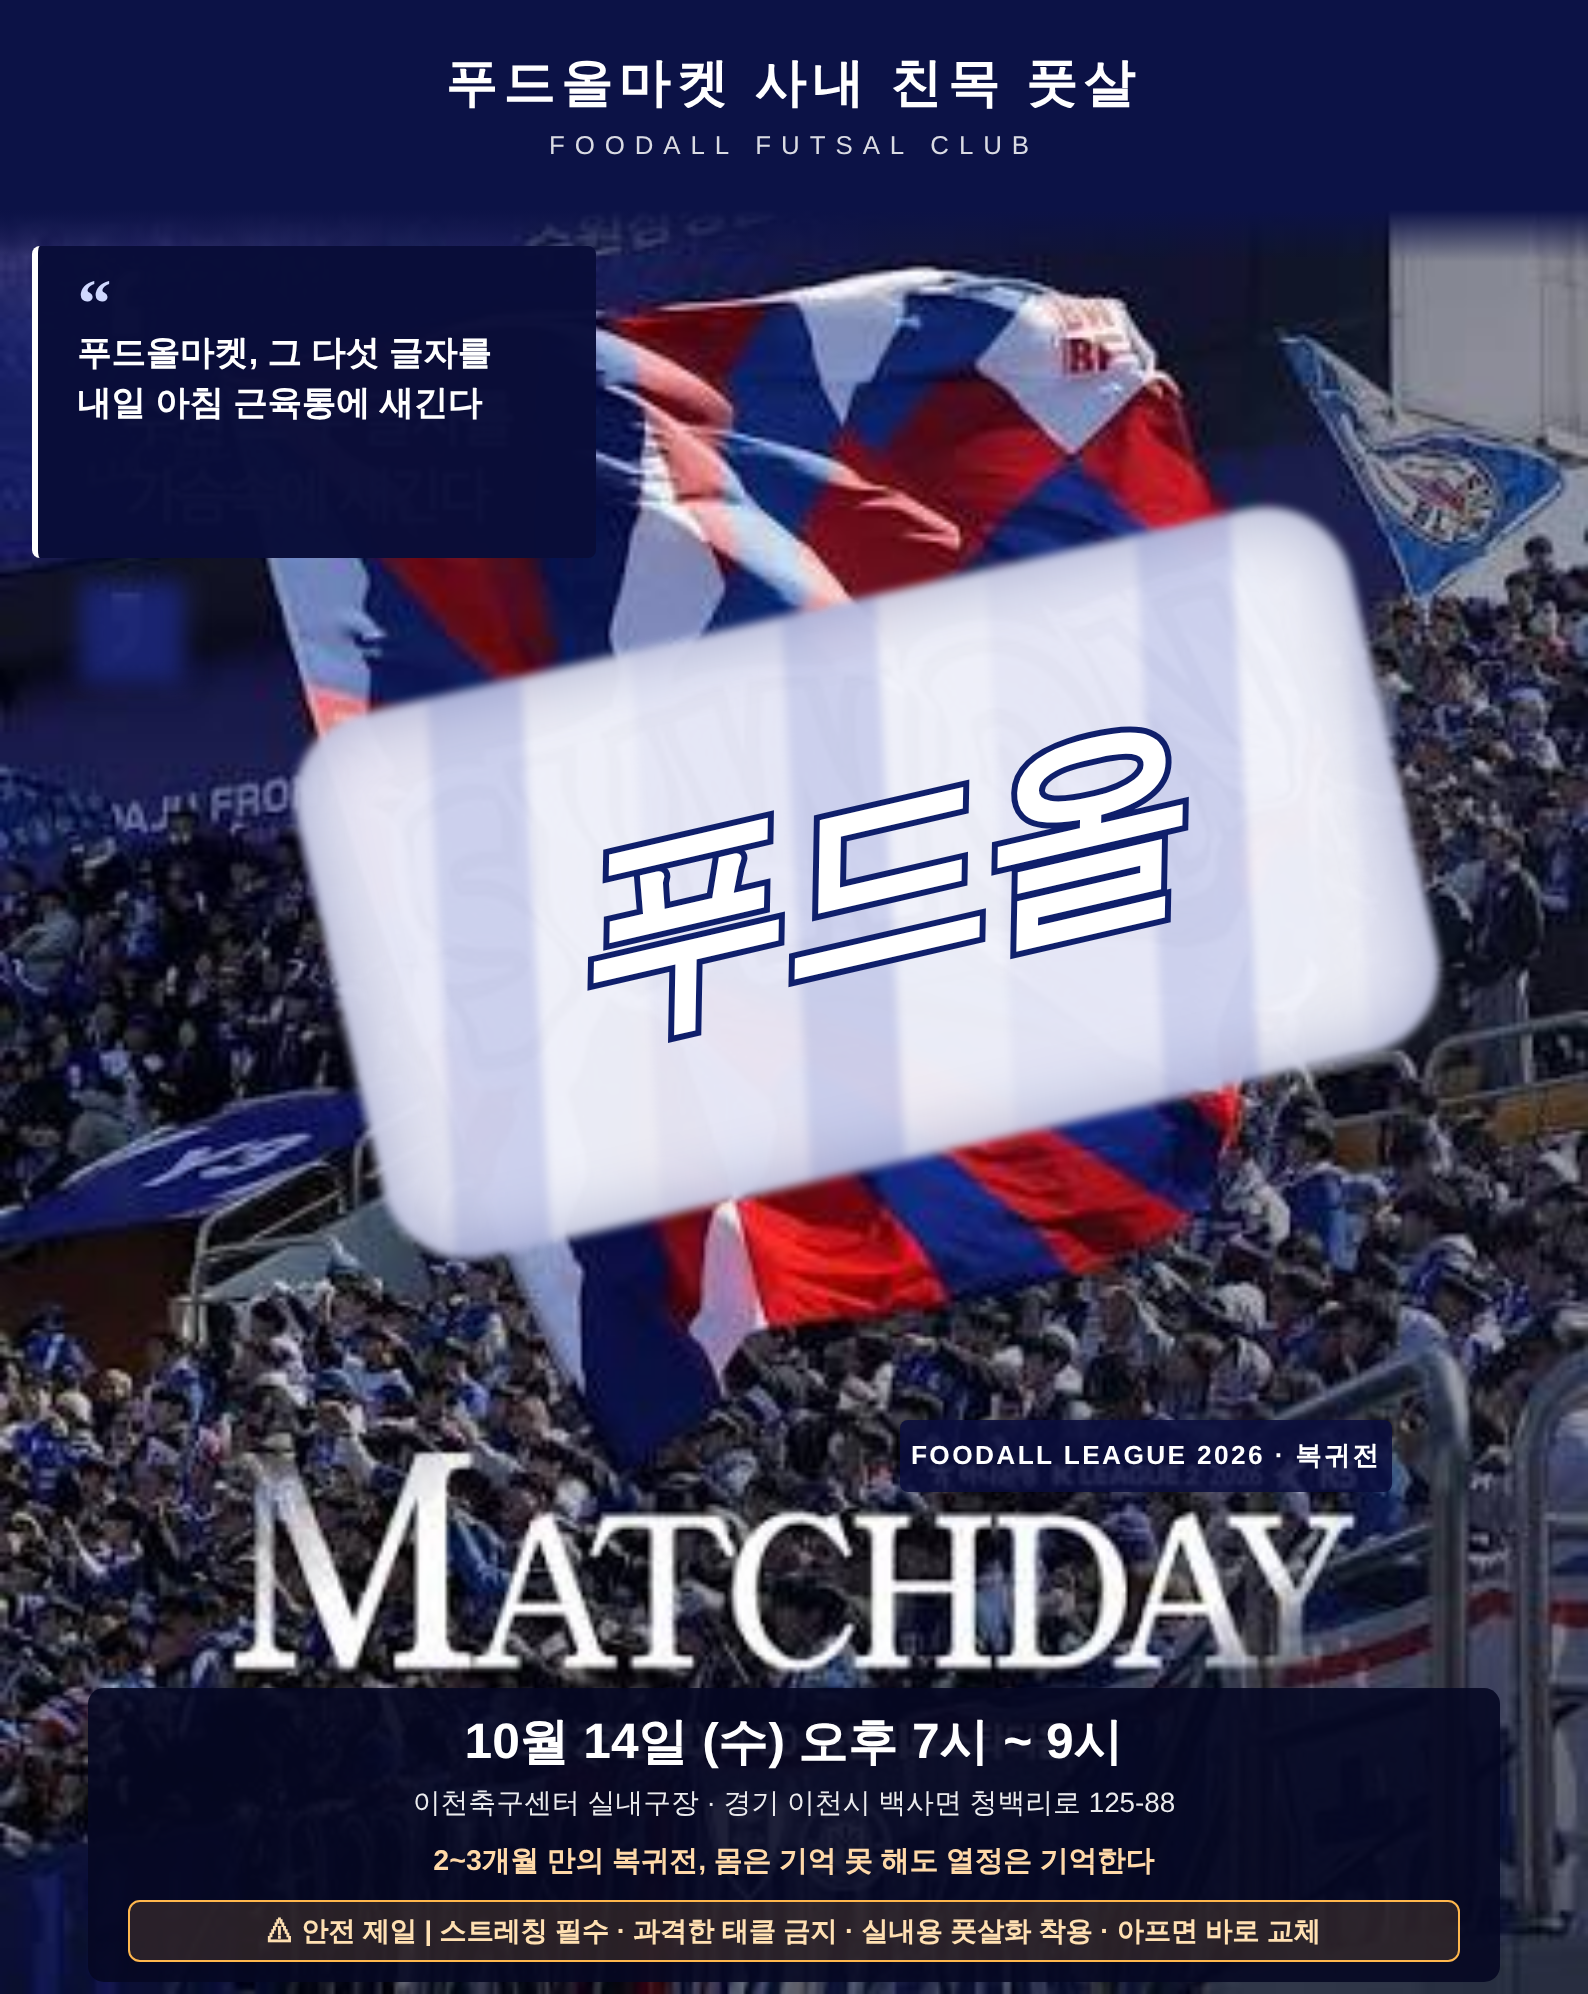
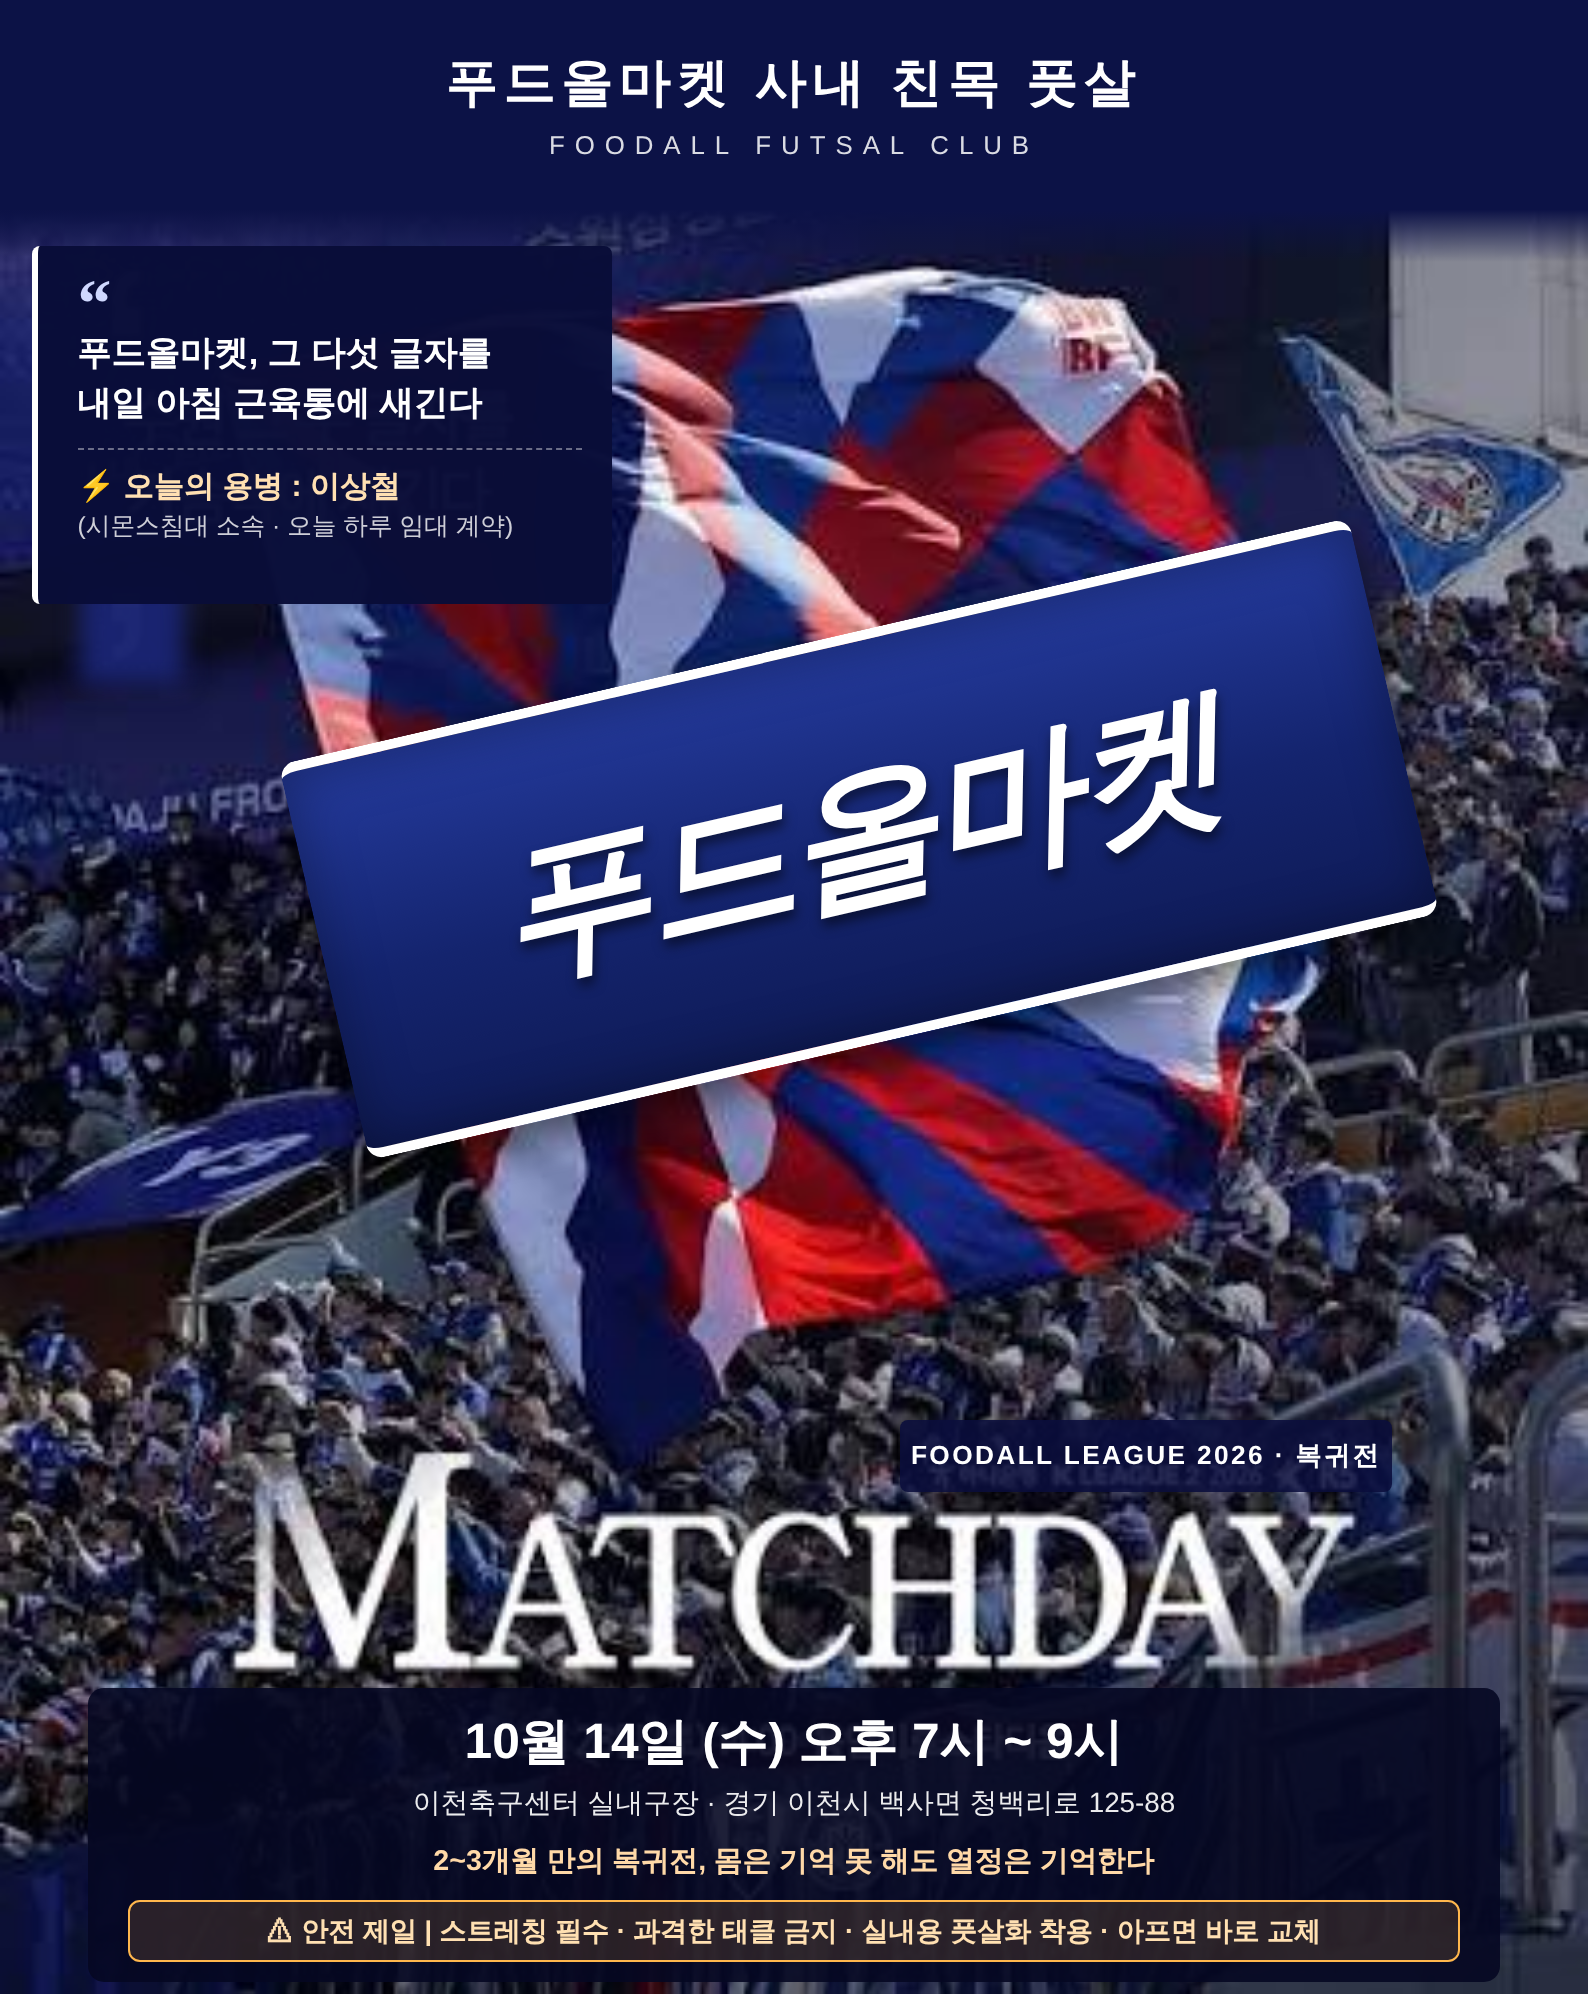
포스터: 깃발 띠 디자인으로 교체, 용병 문구 추가
Claude-Session: https://claude.ai/code/session_0121n1BP8M3Madgrsxc7ToZB

Changed region(s): [[0.0617, 0.2177, 0.9257, 0.653], [0.3703, 0.1244, 0.4011, 0.1866], [0.3703, 0.2177, 0.4011, 0.2487]]

diff --git a/풋살_매치데이포스터_사진버전.html b/풋살_매치데이포스터_사진버전.html
@@ -18,15 +18,18 @@
   .head b { display: block; font-size: 13px; letter-spacing: 1.5px; }
   .head span { display: block; margin-top: 3px; font-size: 6.5px; letter-spacing: 2.5px; opacity: .85; }
   /* 깃발 글자 덮개 + 새 글자 */
-  .flagpatch { left: 82px; top: 152px; width: 272px; height: 140px; transform: rotate(-13deg);
-    background: repeating-linear-gradient(100deg, #e9eaf8 0 38px, #cfd3ef 38px 62px, #f2f3fb 62px 90px), #dcdef2; background-blend-mode: normal; border-radius: 22px; filter: blur(1.2px); opacity: .97; box-shadow: inset 0 0 18px rgba(20,35,120,.35); }
-  .flagtext { left: 82px; top: 152px; width: 272px; height: 140px; transform: rotate(-13deg); display: flex; align-items: center; justify-content: center;
-    font-size: 54px; font-weight: 900; font-style: italic; letter-spacing: -2px; color: #fff; -webkit-text-stroke: 3px #0f1f6b; paint-order: stroke fill; }
+  .flagpatch { left: 78px; top: 160px; width: 276px; height: 102px; transform: rotate(-13deg); border-radius: 4px;
+    background: linear-gradient(180deg, #243a9c, #14246e 55%, #0f1b57); border-top: 3px solid #fff; border-bottom: 3px solid #fff;
+    box-shadow: 0 5px 8px rgba(0,0,0,.45), inset 0 0 14px rgba(0,0,0,.35); }
+  .flagtext { left: 78px; top: 160px; width: 276px; height: 102px; transform: rotate(-13deg); display: flex; align-items: center; justify-content: center;
+    font-size: 38px; font-weight: 900; font-style: italic; letter-spacing: -1px; color: #fff; text-shadow: 0 2px 3px rgba(0,0,0,.5); }
   /* 인용구 */
-  .quote { left: 8px; top: 62px; width: 142px; height: 78px; background: rgba(9,13,56,.98); border-left: 2px solid #fff; border-radius: 2px;
+  .quote { left: 8px; top: 62px; width: 146px; height: 90px; background: rgba(9,13,56,.98); border-left: 2px solid #fff; border-radius: 2px;
     text-align: left; padding: 9px 8px 0 10px; font-size: 8.6px; font-weight: 700; line-height: 1.45; }
   .quote i { display: block; font-style: normal; font-size: 17px; line-height: .7; font-family: Georgia, serif; color: #cfd8ff; }
   /* 우상단 리그 표기 */
+  .merc { margin-top: 5px; padding-top: 4px; border-top: 1px dashed rgba(255,255,255,.4); font-size: 7.6px; font-weight: 700; line-height: 1.4; color: #ffe0b2; }
+  .merc small { display: block; font-size: 6.2px; font-weight: 500; color: #fff; opacity: .8; }
   .patch2 { left: 20px; top: 146px; width: 26px; height: 26px; background: rgba(26,36,115,.97); filter: blur(3px); }
   .league { left: 226px; top: 357px; width: 124px; height: 18px; background: rgba(10,14,60,.88); border-radius: 2px; font-size: 6.6px; font-weight: 700; letter-spacing: .6px; line-height: 18px; }
   /* 하단 경기 정보 */
@@ -42,9 +45,9 @@
 <div class="poster">
   <div class="head"><b>푸드올마켓 사내 친목 풋살</b><span>FOODALL FUTSAL CLUB</span></div>
   <div class="flagpatch"></div>
-  <div class="flagtext">푸드올</div>
+  <div class="flagtext">푸드올마켓</div>
   <div class="patch2"></div>
-  <div class="quote"><i>“</i>푸드올마켓, 그 다섯 글자를<br>내일 아침 근육통에 새긴다</div>
+  <div class="quote"><i>“</i>푸드올마켓, 그 다섯 글자를<br>내일 아침 근육통에 새긴다<div class="merc">⚡ 오늘의 용병 : 이상철<small>(시몬스침대 소속 · 오늘 하루 임대 계약)</small></div></div>
   <div class="league">FOODALL LEAGUE 2026 · 복귀전</div>
   <div class="plate">
     <div class="when">10월 14일 (수) 오후 7시 ~ 9시</div>
